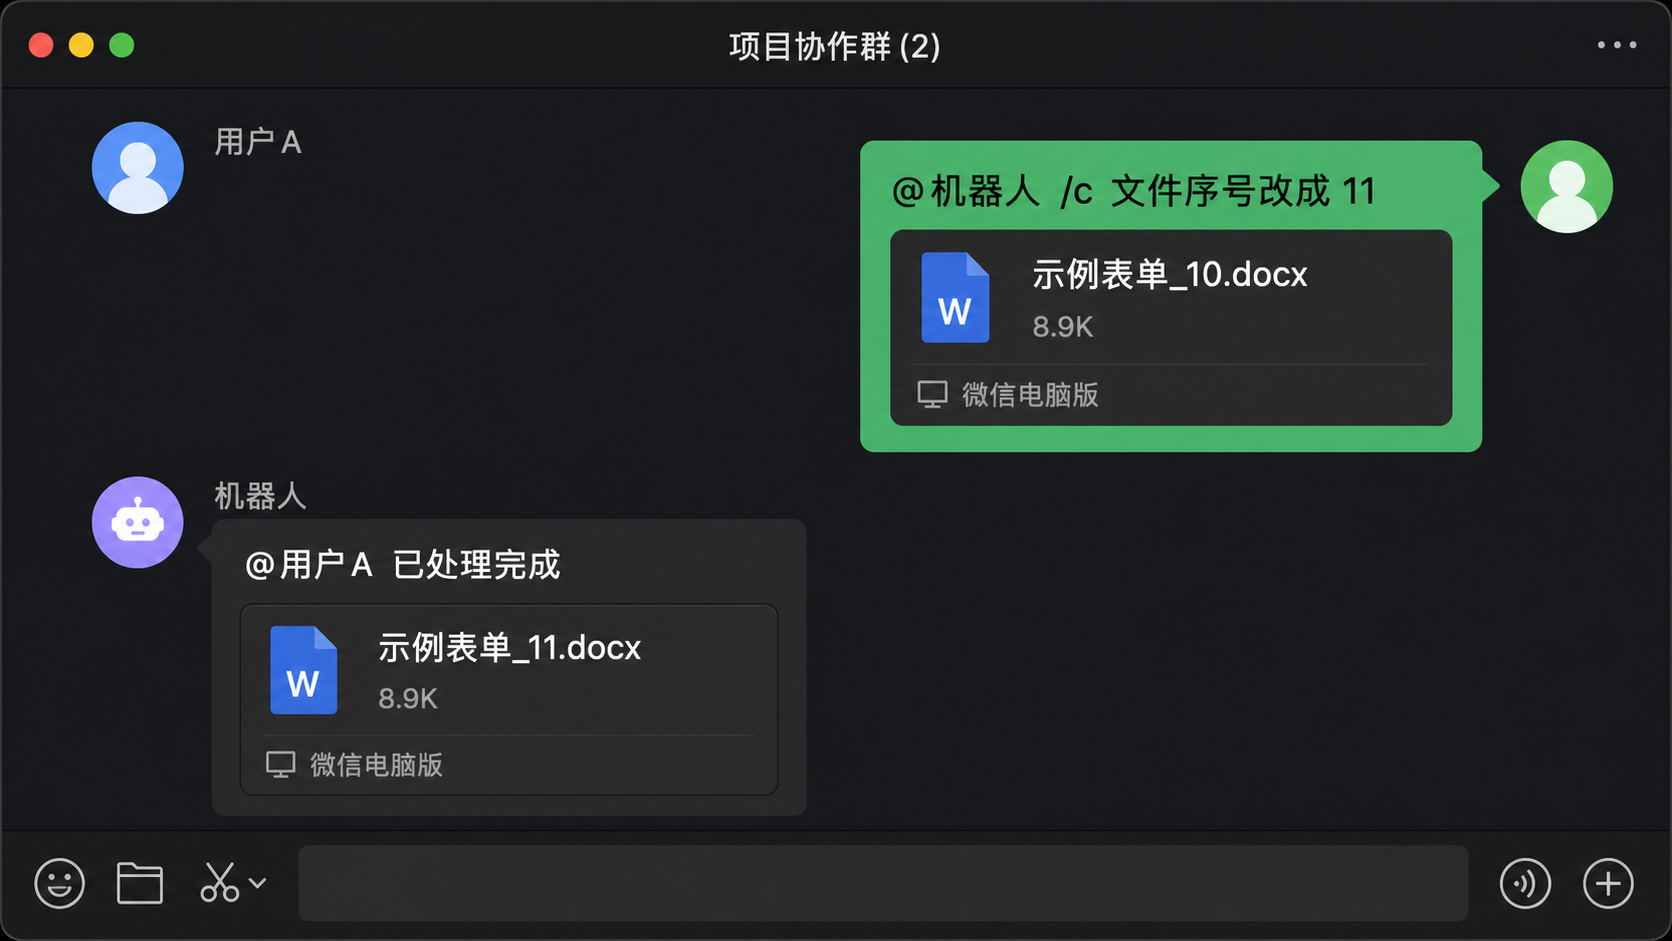
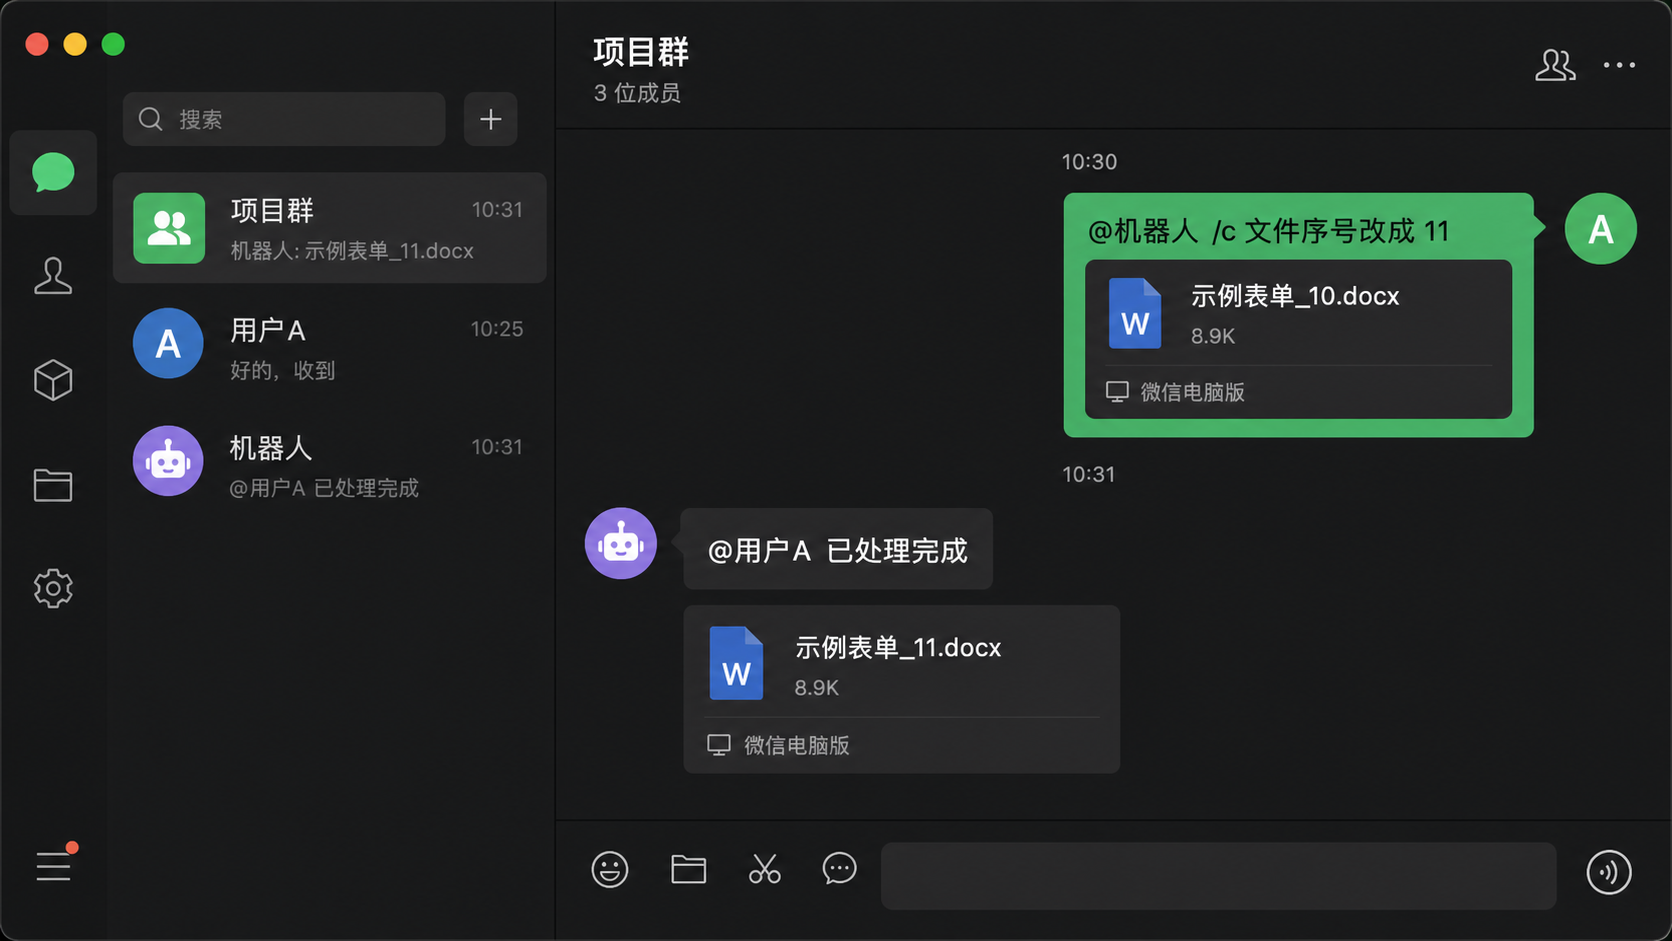
readme

diff --git a/README.md b/README.md
@@ -84,20 +84,24 @@ python3 run_ai_group_bot.py
 
 启动后会打印配置文件、监听群聊、随机延迟范围、上下文恢复条数、群日志目录和错误日志目录。按 `Ctrl+C` 停止。
 
-## 聊天示例
+## 功能示例
 
-普通 AI 回复：
+### 群 @ AI 自动回复
 
 ![普通 AI 回复示例](docs/images/readme/chat-normal-ai.png)
+
+机器人只处理配置群里 @ 当前登录昵称的消息。多个群同时触发时会进入同一个发送队列，按顺序回复，避免抢焦点和串群。
 
 ```text
 用户A：@机器人 今天项目测试环境要注意什么？
 机器人：@用户A 可以先确认服务状态、依赖配置和最近错误日志...
 ```
 
-OpenClaw 处理文件：
+### OpenClaw 处理引用文件
 
 ![OpenClaw 文件处理示例](docs/images/readme/chat-openclaw-file.png)
+
+带 OpenClaw 前缀的消息会交给本地 agent。引用文件卡片时，机器人会把附件路径传给 OpenClaw，并在处理完成后把生成文件发回群里。
 
 ```text
 用户A：引用「示例表单_10.docx」并发送：@机器人 /c 文件名称序号改成 11 发给我
@@ -105,16 +109,7 @@ OpenClaw 处理文件：
 机器人：发送文件「示例表单_11.docx」
 ```
 
-继续纯文本对话：
-
-![纯文本不携带附件示例](docs/images/readme/chat-text-no-attachment.png)
-
-```text
-用户A：@机器人 /c 很好
-机器人：@用户A 谢谢
-```
-
-重置当前群会话：
+### 会话重置
 
 ```text
 用户A：@机器人 /new
@@ -185,7 +180,7 @@ with WeChatClient(auto_connect=True) as wx:
 
 ## 最近更新
 
-- **2026-05-06**：完善 OpenClaw 文件引用和文件回传链路。支持从微信引用气泡解析附件、传入 OpenClaw、识别生成文件并自动发送；修复纯文本消息误继承旧附件、真实引用消息丢附件、输入文件副本被误发、中文标点后文件名无法解析等问题。README 新增聊天示例、文件链路和 macOS 操作注意事项。
+- **2026-05-06**：完善 OpenClaw 文件引用和文件回传链路。支持从微信引用气泡解析附件、传入 OpenClaw、识别生成文件并自动发送；修复纯文本消息误继承旧附件、真实引用消息丢附件、输入文件副本被误发、中文标点后文件名无法解析等问题。README 新增功能示例、文件链路和 macOS 操作注意事项。
 - **2026-05-03**：新增 OpenClaw 本地 agent 双引擎模式。普通 @ 消息继续走 LLM 秒回；带 `/claw` 前缀的 @ 消息自动转给本地 OpenClaw agent 处理（支持工具调用，能力更强），失败时自动降级回 LLM。同时新增引用消息识别能力、修复切群发送偶发卡顿问题。详见 [CHANGELOG](docs/guide/CHANGELOG.md)。
 
 ## 许可证与致谢
